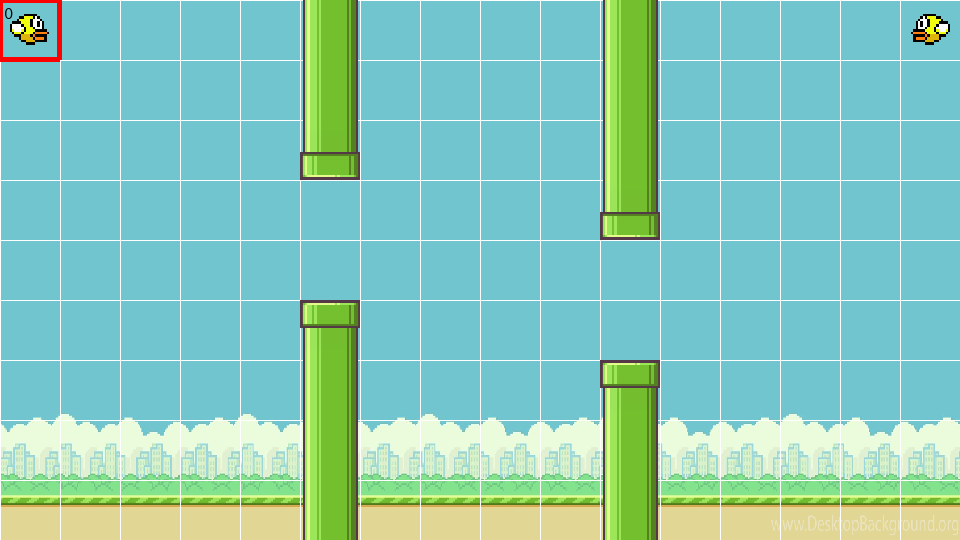
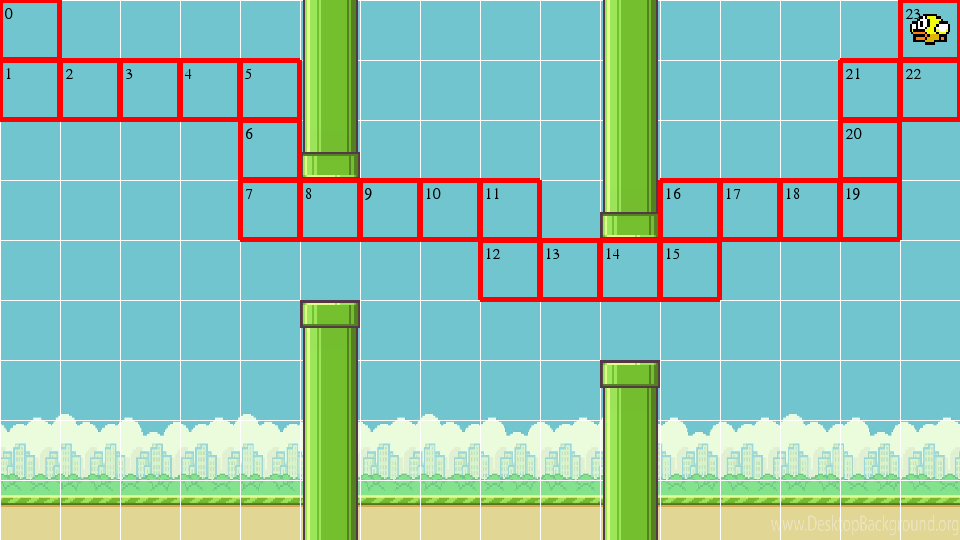
monte_carlo done

diff --git a/lovebird.py b/lovebird.py
@@ -37,8 +37,10 @@ class GameConfig:
     markov_mode_space = ['random', 'policy_iteration', 'value_iteration']
     markov_mode_count = 0
 
-    monte_mode_space = ['exploring_starts']
+    monte_mode_space = ['exploring_starts', 'on_policy']
     monte_mode_count = 0
+
+    monte_on_policy_epsilon = 0.1
 
 
 class GameItem(pygame.sprite.Sprite):
@@ -181,14 +183,20 @@ class LoveBirdGame():
                         GameConfig.loop_flag = not GameConfig.loop_flag
                         self.reset()
                         male_bird.reset()
-                        policy.mode = policy.mode_space[GameConfig.markov_mode_count]
-                        if GameConfig.markov_mode_count < len(GameConfig.markov_mode_space) - 1:
-                            GameConfig.markov_mode_count += 1
+                        # policy.mode = policy.mode_space[GameConfig.markov_mode_count]
+                        # if GameConfig.markov_mode_count < len(GameConfig.markov_mode_space) - 1:
+                        #     GameConfig.markov_mode_count += 1
+                        # else:
+                        #     GameConfig.markov_mode_count = 0
+                        # policy.mode = policy.mode_space[1]
+                        # policy.change_mode(policy.mode)
+                        # self.v_values_grid.containers = policy.v_values
+                        policy.mode = policy.mode_space[GameConfig.monte_mode_count]
+                        if GameConfig.monte_mode_count < len(GameConfig.monte_mode_space) - 1:
+                            GameConfig.monte_mode_count += 1
                         else:
-                            GameConfig.markov_mode_count = 0
-                        policy.mode = policy.mode_space[2]
+                            GameConfig.monte_mode_count = 0
                         policy.change_mode(policy.mode)
-                        self.v_values_grid.containers = policy.v_values
                     if event.key == K_ESCAPE:
                         pygame.image.save(self.screen, os.path.join(GameConfig.root_path, GameConfig.save_path, f'{GameConfig.save_number}.png'))
                         GameConfig.save_number += 1
@@ -356,7 +364,7 @@ class Markov():
 
 
 class MonteCarlo():
-    def __init__(self, reward_grid, reward_category, actions, mode_space):
+    def __init__(self, reward_grid, reward_category, actions, gamma, mode_space, *args):
         self.i_rewards = reward_grid  # immediate_reward
 
         self.s_states = []  # search
@@ -373,21 +381,145 @@ class MonteCarlo():
 
         self.actions = actions
 
-        self.pi_values = np.zeros((reward_grid.shape[0], reward_grid.shape[1]), dtype=np.int)
-        self.q_values = np.zeros((reward_grid.shape[0], reward_grid.shape[1], len(actions)), dtype=np.float)
-        self.return_values = np.zeros_like(self.q_values, dtype=np.float)
+        self.q_values = np.ones((reward_grid.shape[0], reward_grid.shape[1], len(actions)), dtype=np.float) * -10000
+        self.return_values = np.zeros((reward_grid.shape[0], reward_grid.shape[1], len(actions)), dtype=np.int)
+        self.return_values_count = np.zeros((reward_grid.shape[0], reward_grid.shape[1], len(actions)), dtype=np.int)
+
+        self.pi_values = np.ones_like(self.return_values, dtype=np.float) * (1 / len(self.actions))
+
+        self.gamma = gamma
 
         self.mode_space = mode_space
         self.mode = None
 
-    def exploring_starts(self):
-        # generate _episode
-        episodes = []
-        for i in range(2000):
+        self.epsilon = args[0]
+
+    def change_mode(self, mode):
+        self.q_values = np.ones_like(self.q_values, dtype=np.float) * -10000
+        self.return_values = np.zeros_like(self.return_values, dtype=np.int)
+        self.return_values_count = np.zeros_like(self.return_values_count, dtype=np.int)
+        self.pi_values = np.ones_like(self.return_values, dtype=np.float) * (1 / len(self.actions))
+
+        if self.mode == 'exploring_starts':
+            # self.exploring_starts()
+            self.q_values = np.load('./output/q_values.npy').reshape(self.q_values.shape)
+        if self.mode == 'on_policy':
+            # self.on_policy()
+            self.pi_values = np.load('./output/pi_values.npy').reshape(self.pi_values.shape)
+
+
+    # def generate_episode(self, state, episode):
+    #     if state in self.e_states:
+    #         return
+    #     if self.mode == 'exploring_starts':
+    #         action = np.random.choice(self.actions)
+    #     elif self.mode == 'on_policy':
+    #         action = np.random.choice(self.actions, p=self.pi_values[state[0]][state[1]])
+    #     next_state = state.copy()
+    #     if action == 'e':
+    #         next_state[1] += 1
+    #     if action == 'w':
+    #         next_state[1] -= 1
+    #     if action == 's':
+    #         next_state[0] += 1
+    #     if action == 'n':
+    #         next_state[0] -= 1
+    #     if not (next_state in self.s_states or next_state in self.e_states):
+    #         next_state = state.copy()
+
+    #     episode.append((state, action))
+    #     return self.generate_episode(next_state, episode)
+
+    def generate_episode_recurrent(self, state):
+        episode = []
+        state_init = state.copy()
+        while episode == [] or len(episode) > 1000:
             episode = []
-            state = np.random.choice(self.s_states)
-            action = np.random.choice(self.actions)
-            print(state, action)
+            state = state_init.copy()
+            next_state = state_init.copy()
+            while not state in self.e_states:
+                if self.mode == 'exploring_starts':
+                    action = np.random.choice(self.actions)
+                elif self.mode == 'on_policy':
+                    action = np.random.choice(self.actions, p=self.pi_values[state[0]][state[1]])
+                if action == 'e':
+                    next_state[1] += 1
+                if action == 'w':
+                    next_state[1] -= 1
+                if action == 's':
+                    next_state[0] += 1
+                if action == 'n':
+                    next_state[0] -= 1
+                if not (next_state in self.s_states or next_state in self.e_states):
+                    next_state = state.copy()
+                episode.append((state, action))
+                state = next_state.copy()
+                if len(episode) > 1000:
+                    break
+        return episode
+
+    def generate_episodes(self, num):
+        episodes = []
+        for i in range(num):
+            for j, state in enumerate(self.s_states):
+                episode = self.generate_episode_recurrent(state)
+                print(f'{i} epoch, {j} state, {len(episode)}')
+                episodes.append(episode)
+        return episodes
+
+    def calculate_g_first_visit(self, episodes):
+        for k, episode in enumerate(episodes):
+            # print(f'{k} Processing...')
+            g = 0
+            for i in range(len(episode)-1, -1, -1):
+                value = episode[i]
+                g = self.i_rewards[value[0][0]][value[0][1]] + g * self.gamma
+                if episode.index(value) == i:
+                    self.return_values[value[0][0]][value[0][1]][self.actions.index(value[1])] += g
+                    self.return_values_count[value[0][0]][value[0][1]][self.actions.index(value[1])] += 1
+
+    def exploring_starts(self):
+        episodes = self.generate_episodes(10000)
+        self.calculate_g_first_visit(episodes)
+
+        for i in range(self.q_values.shape[0]):
+            for j in range(self.q_values.shape[1]):
+                for k in range(self.q_values.shape[2]):
+                    if self.return_values_count[i][j][k] != 0:
+                        self.q_values[i][j][k] = self.return_values[i][j][k] / self.return_values_count[i][j][k]
+
+        print(self.q_values)
+
+    def on_policy(self):
+        for c in range(1000):
+            print(f'{c} ....')
+            state = [0, 0]
+            episode = self.generate_episode_recurrent(state)
+            episodes = []
+            episodes.append(episode)
+            self.calculate_g_first_visit(episodes)
+
+            for i in range(self.q_values.shape[0]):
+                for j in range(self.q_values.shape[1]):
+                    for k in range(self.q_values.shape[2]):
+                        if self.return_values_count[i][j][k] != 0:
+                            self.q_values[i][j][k] = self.return_values[i][j][k] / self.return_values_count[i][j][k]
+
+            for i in range(self.pi_values.shape[0]):
+                for j in range(self.pi_values.shape[1]):
+                    for k, action in enumerate(self.actions):
+                        if action == self.actions[np.argmax(self.q_values[i][j])]:
+                            self.pi_values[i][j][k] = 1 - self.epsilon + self.epsilon / len(self.actions)
+                        else:
+                            self.pi_values[i][j][k] = self.epsilon / len(self.actions)
+
+    def give_action_advice(self, state):
+        if self.mode == 'exploring_starts':
+            print(self.q_values[state[0]][state[1]], self.actions[np.argmax(self.q_values[state[0]][state[1]])])
+            return self.actions[np.argmax(self.q_values[state[0]][state[1]])]
+        elif self.mode == 'on_policy':
+            print(self.pi_values[state[0]][state[1]], self.actions[np.argmax(self.pi_values[state[0]][state[1]])])
+            return self.actions[np.argmax(self.pi_values[state[0]][state[1]])]
 
 
 def game_env_init():
@@ -454,12 +586,14 @@ def test_policy_evaluation():
 
 if __name__ == '__main__':
     np.set_printoptions(linewidth=400)
+    sys.setrecursionlimit(10**6)
 
     # markov = Markov(*markov_env_init(), GameConfig.actions, GameConfig.gamma, GameConfig.markov_mode_space)
     # game, *game_obj = game_env_init()
     # game.loop(*game_obj, policy=markov)
 
-    monte_carlo = MonteCarlo(*monte_carlo_env_init(), GameConfig.actions, GameConfig.monte_mode_space)
-    monte_carlo.exploring_starts()
+    monte_carlo = MonteCarlo(*monte_carlo_env_init(), GameConfig.actions, GameConfig.gamma, GameConfig.monte_mode_space, GameConfig.monte_on_policy_epsilon)
+    game, *game_obj = game_env_init()
+    game.loop(*game_obj, monte_carlo)
 
     # test_policy_evaluation()
